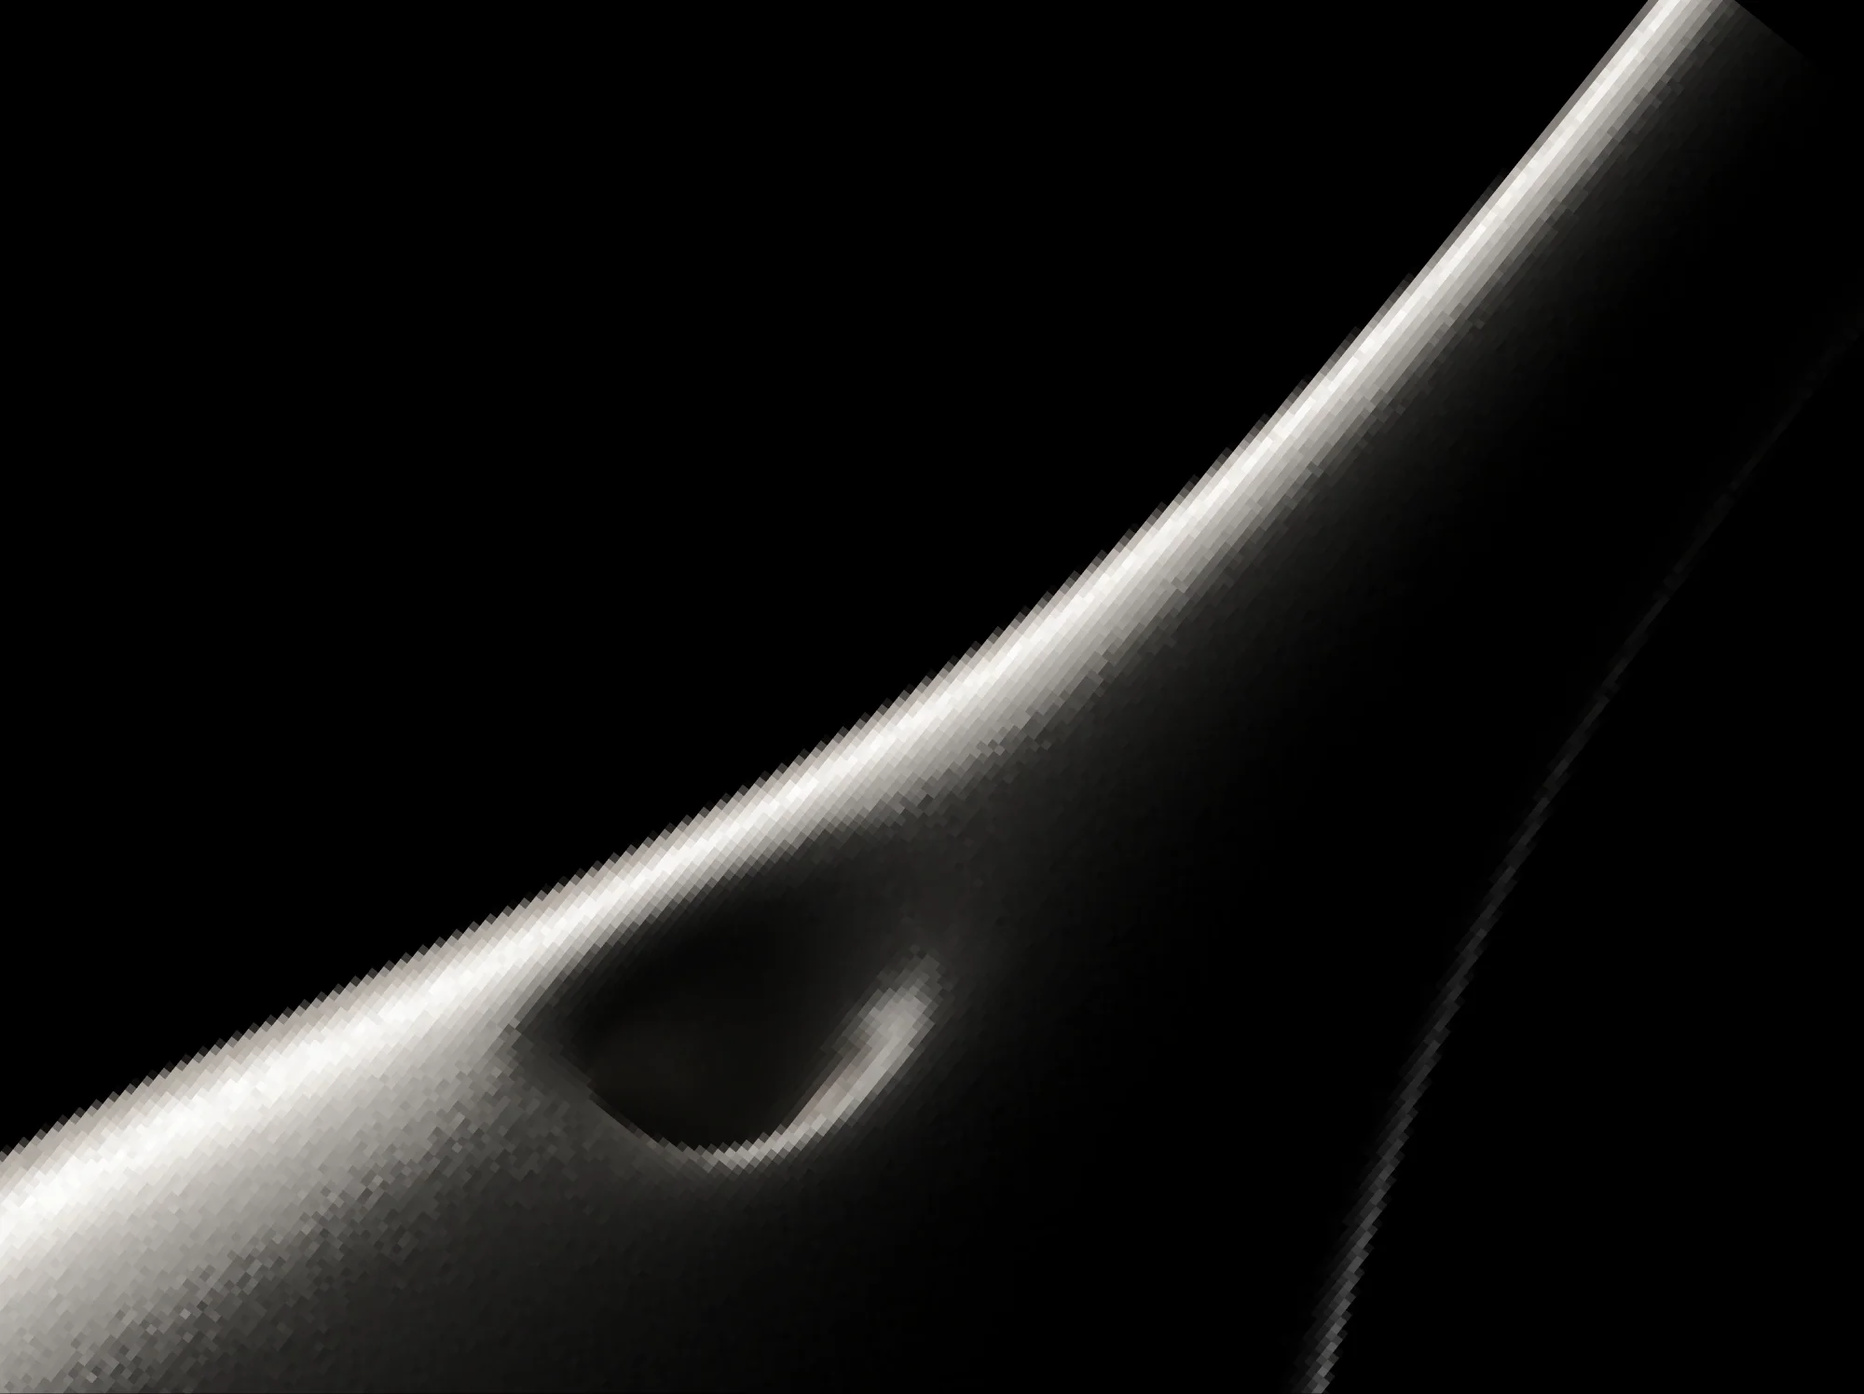
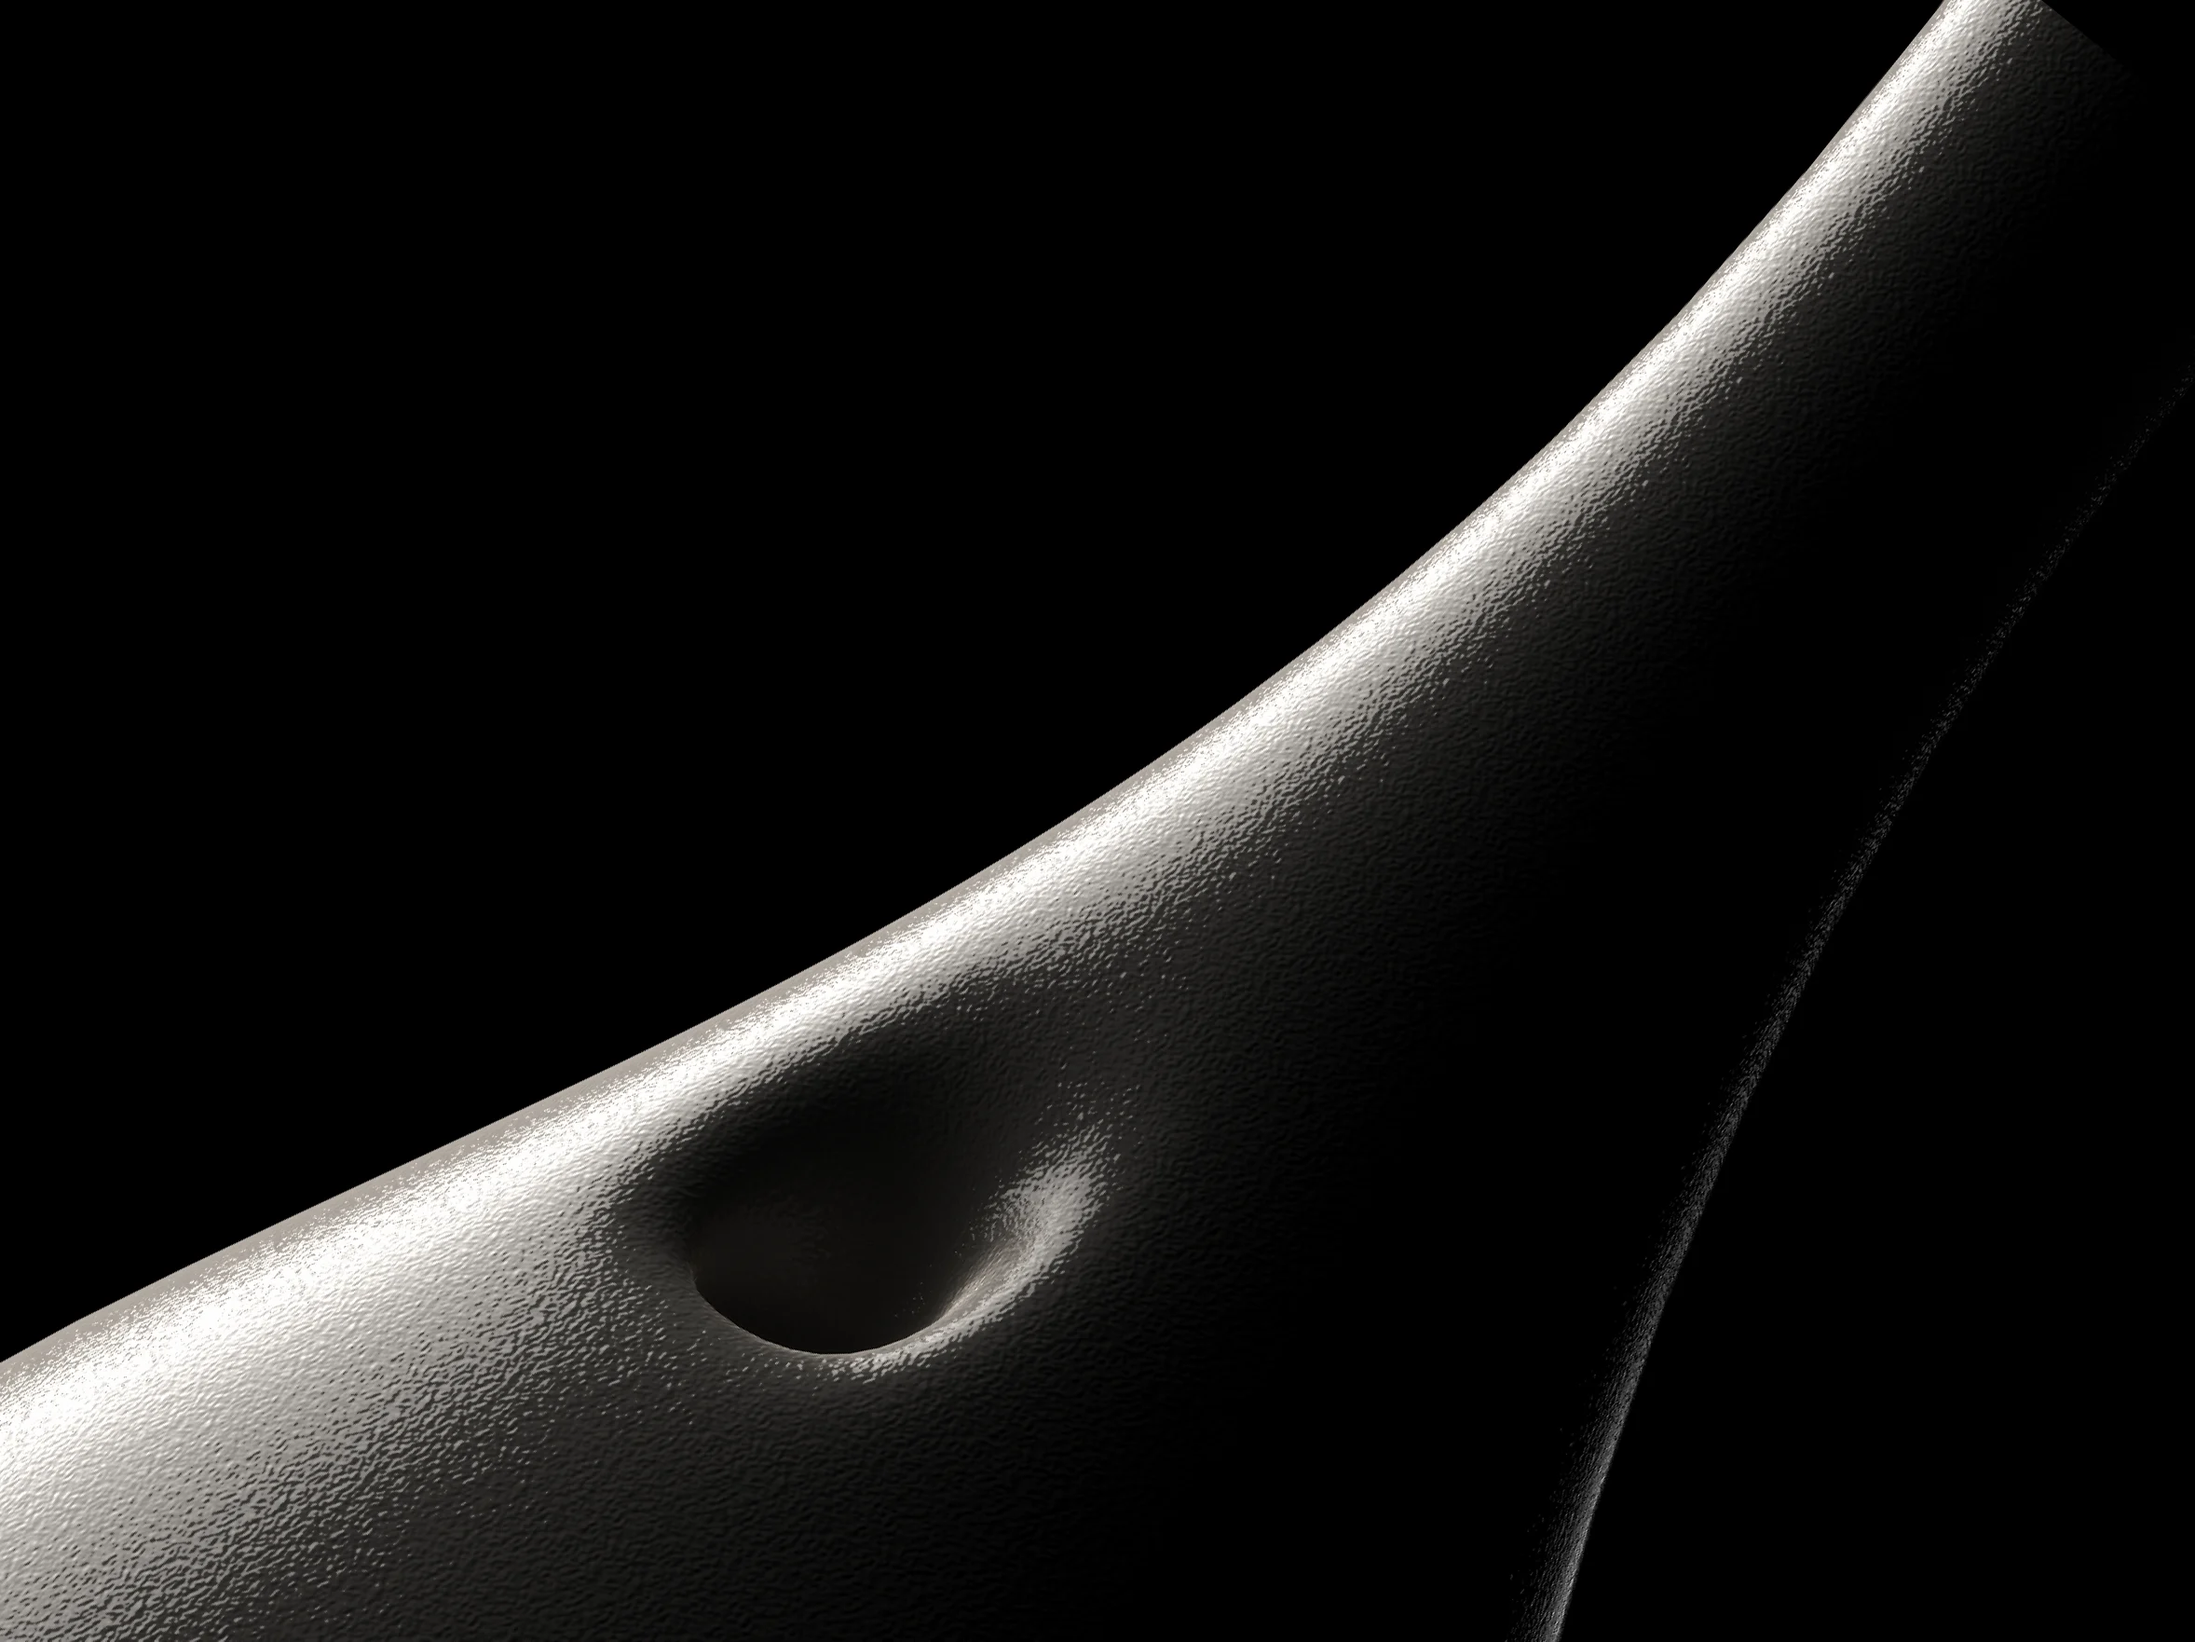
content: Runway, Vaek and Foudre filled out from the Page 73 slides and the owner's files
Runway renders rebuilt from the full-resolution sources, with new Collection and Space parts;
Vaek gains the hand and pattern vases and the space design, with sharper hero, vase and curve;
Foudre's merchandise, dolls and red campaign re-cut at higher resolution, plus the seated doll.
Unregistered Miro DDP photos added to the source manifest.

diff --git a/src/lib/projectStoryDrafts.ts b/src/lib/projectStoryDrafts.ts
@@ -65,16 +65,16 @@ const foudre: ProjectStory = {
       f('body', 2125, 2234), f('cap', 2400, 1304)),
     { chapter: 'Branding', kind: 'strip', text: { title: 'Raw, cold, unrefined',
       body: '차갑고 묵직한 금속의 물성을 브랜드의 중심에 놓았습니다. 정제되지 않은 날것의 미학을 제품 이미지와 캠페인 그래픽으로 확장했습니다.' },
-      images: [f('hands', 1430, 946), f('campaign-01', 920, 685), f('campaign-02', 920.665, 970)] },
+      images: [f('hands', 1430, 946), f('campaign-01', 920, 685), f('campaign-02', 1800, 1896)] },
     { chapter: 'Process', kind: 'strip', text: { title: 'A scent you can touch',
       body: '표면을 문지르면 향이 퍼지는 인형을 제작했습니다. 시각적 이미지에 머무르지 않고, 만지고 향을 맡으며 브랜드를 경험하는 인터랙티브 오브제입니다.' },
-      images: [f('merchandise', 920, 963), f('dolls', 448.798, 450), f('making', 1116, 1606)] },
+      images: [f('merchandise', 1674, 1752), f('doll-sit', 1600, 1600), f('dolls', 768, 768), f('making', 1116, 1606)] },
   ],
 };
 
 const vaek: ProjectStory = {
   name: 'Vaek', discipline: 'Object & identity', presentation: 'editorial',
-  hero: v('hero', 920, 970),
+  hero: v('hero', 1472, 1552),
   intro: {
     ko: '한국 자기의 유려한 곡선과 여백을 일상의 오브제로.\n단순함 속에 깃든 부드럽고 고요한 아름다움을 담았습니다.',
     en: 'An everyday object that reinterprets the quiet curves and negative space of Korean porcelain.',
@@ -83,16 +83,19 @@ const vaek: ProjectStory = {
   sections: [
     { chapter: 'Background', texts: [{ title: 'Space for a branch',
       body: '수직으로 꽃을 꽂는 일반적인 입구 대신 사선 방향으로 타공했습니다. 한국화 속 꽃과 가지처럼, 식물의 선이 공간 안에서 자연스럽게 이어지도록 유도합니다.' }],
-      rows: [{ images: [v('vase', 920, 510)] }] },
+      rows: [{ images: [v('vase', 2400, 1330), v('hand', 780, 1078)] }] },
     { chapter: 'Product', texts: [{ title: 'The Korean curve',
       body: '백자의 비대칭적인 조형과 불완전한 곡선에서 출발했습니다. 측면으로 향하는 입구는 식물의 방향과 여백을 함께 드러내는 장치입니다.' }],
-      rows: [{ images: [v('curve', 920, 688)], span: 7 }] },
+      rows: [{ images: [v('curve', 2356, 1762), v('pattern', 1800, 1898)] }] },
     { chapter: 'Branding', kind: 'strip', text: { title: 'Quiet strength',
       body: '단순함 속에 내재된 부드러운 힘을 브랜드의 인상으로 삼았습니다. 자기의 유려한 선과 비움의 정서를 이미지와 그래픽에 연결했습니다.' },
       images: [v('campaign-01', 920, 691), v('campaign-02', 920, 970)] },
     { chapter: 'Process', kind: 'strip', text: { title: 'From print to everyday use',
       body: '3D 프린팅으로 제작한 뒤 직접 물을 담고 식물을 꽂아보며 사용성을 확인했습니다. 생활 공간에 배치하고 지인들에게 선물하며 일상 속 오브제로서의 가능성을 살폈습니다.' },
       images: [v('prototype-01', 685, 970), v('prototype-02', 1155, 685)] },
+    { chapter: 'Space', texts: [{ title: 'A room for Vaek',
+      body: '브랜드의 정서를 공간으로 확장했습니다. 어둠 속에 열린 빛의 문과 백자의 실루엣이 캠페인 이미지와 하나의 장면으로 이어지도록 구성했습니다.' }],
+      rows: [{ images: [v('space', 2400, 1350)] }] },
   ],
 };
 

diff --git a/src/lib/projectStoryRemainingDrafts.ts b/src/lib/projectStoryRemainingDrafts.ts
@@ -55,10 +55,18 @@ const runway: ProjectStory = {
       photos('runway', ['render-6'])),
     sequence('Form', 'A different silhouette at every angle',
       '앞에서는 무릎과 수직적인 실루엣이 시선을 위로 이끌고, 뒤에서는 안으로 돌아가는 곡선이 드러납니다. 보는 방향에 따라 다른 인상을 갖도록 구성했습니다.',
-      photos('runway', ['render-2', 'render-3', 'render-4'])),
-    block('Collection', 'A gesture in the room',
-      '사람의 눈높이와 마주하는 열린 조형을 지향했습니다. 기대거나 앉는 자세에서 얻은 형태를 공간 안에서 읽히는 하나의 제스처로 제안합니다.',
-      photos('runway', ['render-5'])),
+      photos('runway', ['render-2', 'render-3', 'render-4', 'render-7', 'render-5'])),
+    // the renders from the owner's Page 73 slides: the set from above, then two of its poses side by side
+    { chapter: 'Collection', texts: [{ title: 'A chair for each other',
+      body: '연인이 서로의 의자가 되어주는 모습에서 착안해 다양한 포즈를 구성했습니다. 사람의 눈높이와 마주하는 열린 조형을 이어, 앉거나 기댈 수 있는 형태로 만들고, 가운데 조형을 의자 형태의 받침대로 두어 나머지 조형들의 이유를 유추하도록 했습니다.' }],
+      rows: [{ images: photos('runway', ['rest-top']), line: 1 },
+        { images: photos('runway', ['rest-recline']), span: 5, line: 2 },
+        { images: photos('runway', ['rest-sit']), span: 5, align: 'end', line: 2 }] },
+    { chapter: 'Space', texts: [{ title: 'ATiiSSU W/S collection',
+      body: '브랜드 월 앞의 낮은 단 위에 조형들을 한 장면으로 모았습니다. 가까이 다가갈수록 각 조형의 자세와 서로 기대는 관계가 드러납니다.' }],
+      rows: [{ images: photos('runway', ['space-wall']), line: 1 },
+        { images: photos('runway', ['space-rug']), span: 5, line: 2 },
+        { images: photos('runway', ['space-close']), span: 5, align: 'end', line: 2 }] },
   ],
 };
 

diff --git a/src/lib/projectDraftAssetMap.ts b/src/lib/projectDraftAssetMap.ts
@@ -59,11 +59,18 @@ export const draftAssetMap: Record<string, StoryImage> = {
   'breathless/image-02': { src: '/projects/breathless/image-02.webp', w: 2514, h: 1677 },
   'breathless/image-03': { src: '/projects/breathless/image-03.webp', w: 2514, h: 1677 },
   'breathless/image-04': { src: '/projects/breathless/image-04.webp', w: 2514, h: 1677 },
-  'runway/render-1': { src: '/projects/runway/render-1.webp', w: 776, h: 1098 },
-  'runway/render-2': { src: '/projects/runway/render-2.webp', w: 798, h: 1098 },
-  'runway/render-3': { src: '/projects/runway/render-3.webp', w: 798, h: 1098 },
-  'runway/render-4': { src: '/projects/runway/render-4.webp', w: 798, h: 1098 },
-  'runway/render-5': { src: '/projects/runway/render-5.webp', w: 1155, h: 586 },
+  'runway/render-1': { src: '/projects/runway/render-1.webp', w: 1150, h: 1438 },
+  'runway/render-2': { src: '/projects/runway/render-2.webp', w: 1200, h: 1884 },
+  'runway/render-3': { src: '/projects/runway/render-3.webp', w: 1200, h: 1842 },
+  'runway/render-4': { src: '/projects/runway/render-4.webp', w: 1200, h: 1800 },
+  'runway/render-5': { src: '/projects/runway/render-5.webp', w: 1440, h: 980 },
+  'runway/render-7': { src: '/projects/runway/render-7.webp', w: 1200, h: 1550 },
+  'runway/rest-top': { src: '/projects/runway/rest-top.webp', w: 2400, h: 1012 },
+  'runway/rest-recline': { src: '/projects/runway/rest-recline.webp', w: 1600, h: 898 },
+  'runway/rest-sit': { src: '/projects/runway/rest-sit.webp', w: 1600, h: 900 },
+  'runway/space-wall': { src: '/projects/runway/space-wall.webp', w: 2400, h: 1130 },
+  'runway/space-rug': { src: '/projects/runway/space-rug.webp', w: 1600, h: 676 },
+  'runway/space-close': { src: '/projects/runway/space-close.webp', w: 1600, h: 676 },
   'runway/render-6': { src: '/projects/runway/render-6.webp', w: 2225, h: 1161 },
 };
 
